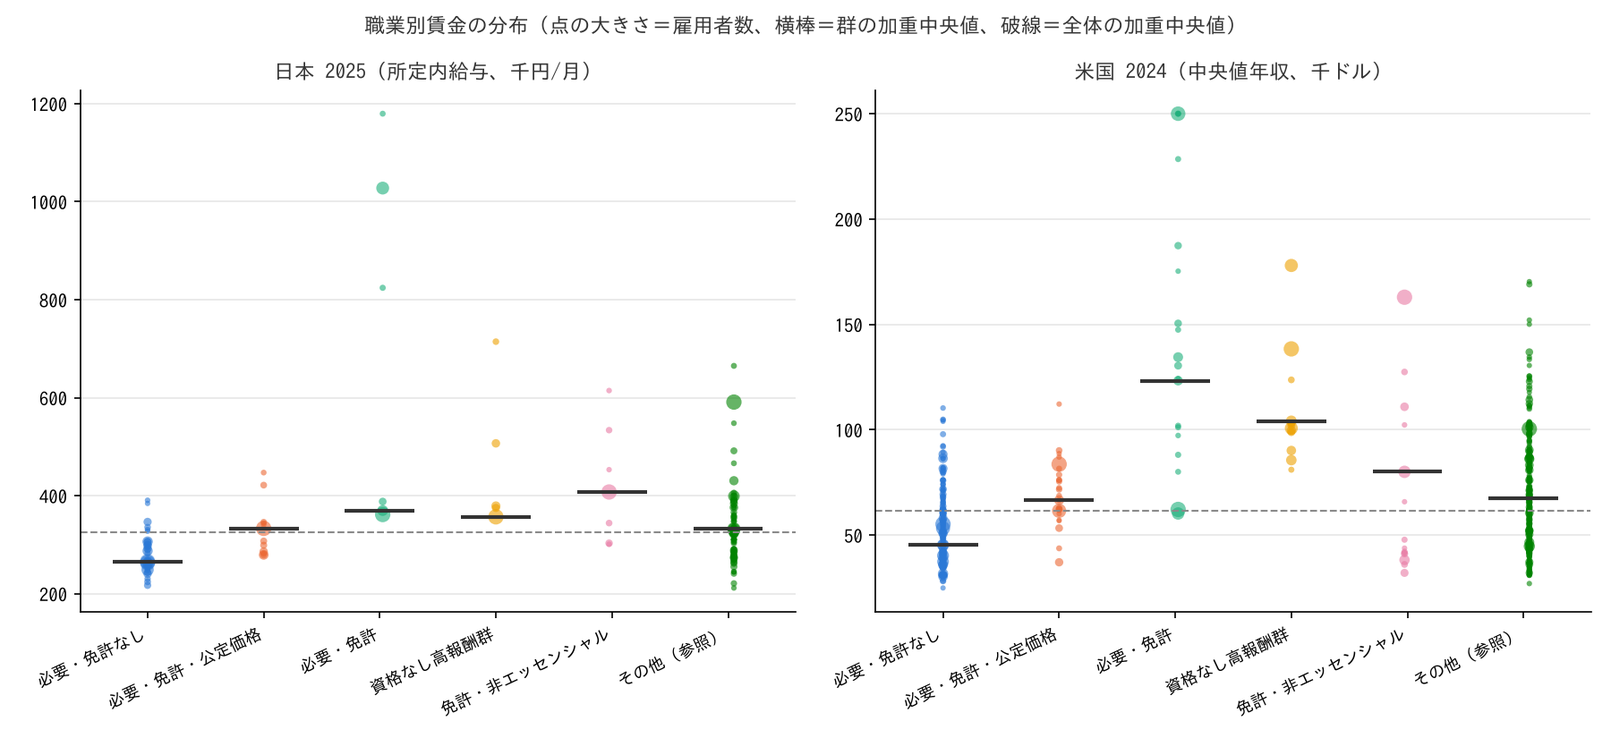
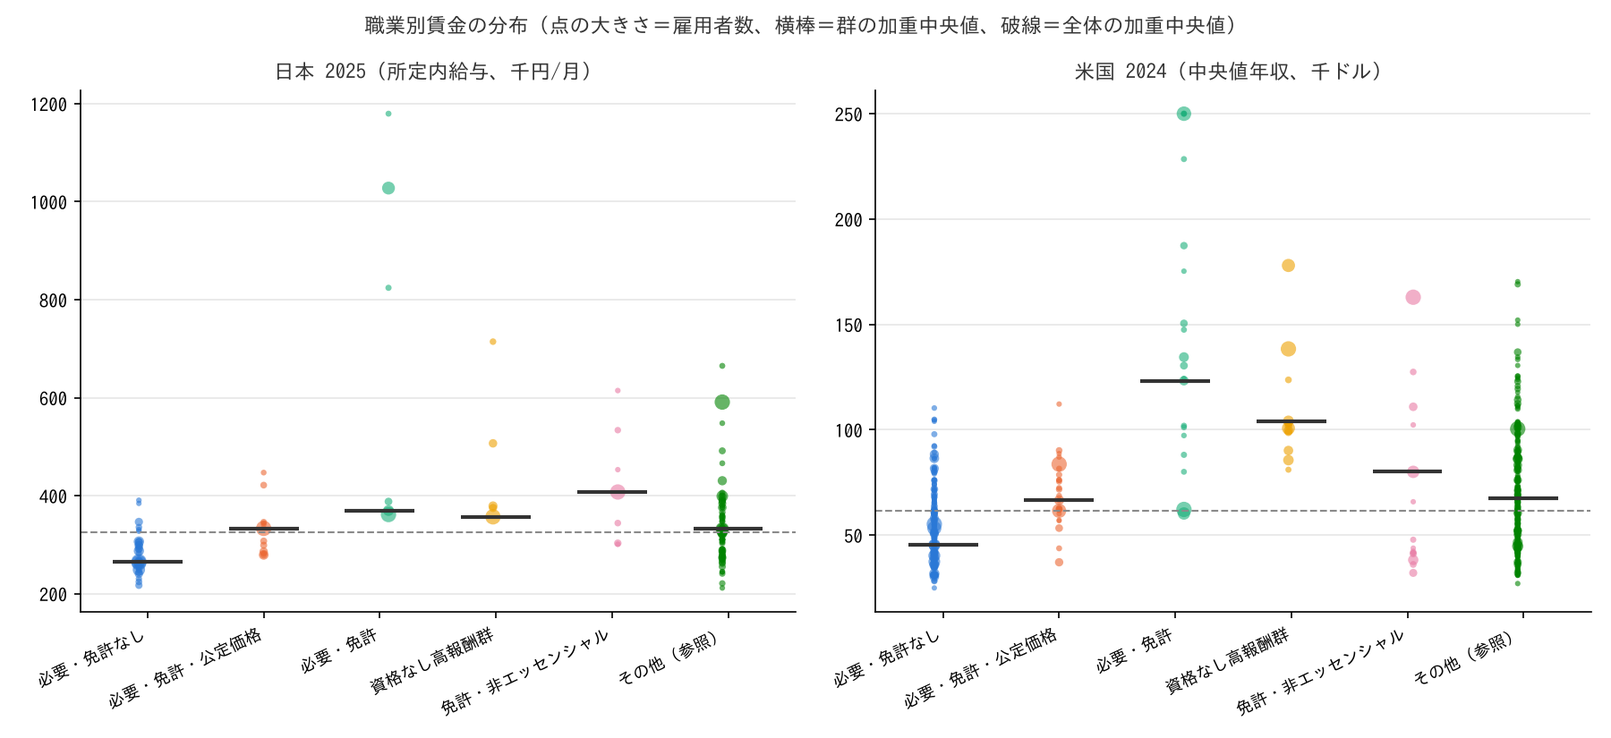
docs(essential-work-wages): 再レビュー対応。H2 の仮説全体の判定、H3 の固定効果なし残差、図の決定性ほか
- R1: H2 総合判定（事前規則 2 か国とも ≥ 0.20 → 整合基準を満たさない）を追加、説明割合を「5 割強〜8 割超」の帯に、
  F 係数の単位を明記、散布図のずらしを hash から決定的な値に（再実行で同一 PNG）
- R3: 年固定効果なし（設計の文言どおり）の残差符号を併記（看護は 9/11 で整合、介護 4/11 で不変）、2024-06 を 2025 年に当てた感度、
  図の線種で事前登録 5 回と事後追加 2 回を区別、推測を仮説の候補と明示
- R4: H4 を部分判定（事後の合成）と明記。総括・設計書・README を同期

Claude-Session: https://claude.ai/code/session_012roE9R7BpcZcLgKN6MHKL8

diff --git a/themes/essential-work-wages/src/theme_essential_work_wages/analysis/a20261030_r3_admin_price.py b/themes/essential-work-wages/src/theme_essential_work_wages/analysis/a20261030_r3_admin_price.py
@@ -187,6 +187,15 @@ def residuals_with_year_fe(d: pl.DataFrame) -> tuple[pl.DataFrame, float, float]
     return d.with_columns(pl.Series("resid", np.asarray(res.resid))), b, se
 
 
+def residuals_no_fe(d: pl.DataFrame) -> pl.DataFrame:
+    """設計の文言どおり年固定効果なし: Δlog 賃金 = a + b·log 求人倍率（加重）。
+
+    残差の符号の感度用。"""
+    x = sm.add_constant(d["log_ratio"].to_numpy(), has_constant="add")
+    res = sm.WLS(d["dlog_wage"].to_numpy(), x, weights=d["workers"].to_numpy()).fit()
+    return d.with_columns(pl.Series("resid_nofe", np.asarray(res.resid)))
+
+
 def did_series(bsws: pl.DataFrame) -> pl.DataFrame:
     """year -> treated wage, control wage (weighted), with old/new names across the 2020 break."""
     b = bsws.filter((pl.col("sex") == "T") & (pl.col("size_class") == "all"))
@@ -440,6 +449,19 @@ def main() -> None:
         v = "整合" if share >= 9 / 13 else ("不支持" if share <= 5 / 13 else "中間")
         verdicts.append(f"{k}: 負の年 {neg}/{n}（{share:.2f}）→ {v}")
     print("判定（負の年の割合 ≥ 0.69 整合 / ≤ 0.38 不支持）: " + "; ".join(verdicts))
+    dn = residuals_no_fe(d)
+    v2 = []
+    for k in ADMIN_KEYS:
+        sub = dn.filter(pl.col("key") == k)
+        neg = int((sub["resid_nofe"] < 0).sum())
+        share = neg / sub.height if sub.height else math.nan
+        rv2 = "整合" if share >= 9 / 13 else ("不支持" if share <= 5 / 13 else "中間")
+        v2.append(f"{k}: 負の年 {neg}/{sub.height}（{share:.2f}）→ {rv2}")
+    print("年固定効果なし（設計の回帰式どおり）の残差で: " + "; ".join(v2))
+    print(
+        "注: 残差はゼロ近傍（±0.3 pt）の年が多く、符号の数は小さなノイズに左右される。"
+        "主判定は年固定効果つき（年ごとの全体の賃上げを除いた区分間の比較）とし、固定効果なしも併記する。"
+    )
     pooled = dr.filter(pl.col("key").is_in(list(ADMIN_KEYS)))
     pooled_mean = as_float(pooled["resid"].mean())
     pooled_neg = as_float((pooled["resid"] < 0).mean())
@@ -546,6 +568,14 @@ def main() -> None:
         + " ".join(f"{100 * x:+.1f}" for x in j0["non_event_values"])
     )
     print(f"**H3b 判定（事前登録 5 回）: {j0['verdict']}**")
+    j25 = h3b_judge(
+        ds, {**{k: v for k, v in EVENTS_PRE.items() if k != 2024}, 2025: "2024-06 一本化（翌年）"}
+    )
+    print(
+        f"2024-06 の改定を 2025 年調査に当てた場合: 翌年 ≥ +2% {j25['hits']}/{j25['n_events']}、"
+        f"改定年の中央値 {100 * j25['event_median']:+.2f}%、"
+        f"非改定年 {100 * j25['non_event_median']:+.2f}% → {j25['verdict']}"
+    )
     jc = h3b_judge(ds, EVENTS_PRE, col="rel_change_cash")
     print(
         f"きまって支給する現金給与で: 翌年 ≥ +2% {jc['hits']}/{jc['n_events']}、"
@@ -641,8 +671,10 @@ def main() -> None:
     ax.legend(frameon=False, fontsize=8)
     ax = axes[1]
     ax.plot(ds["year"], ds["gap"] * 100, marker="o", color=SERIES[0])
-    for y in EVENT_YEARS:
-        ax.axvline(y - 0.5, color=SERIES[1], linestyle=":", linewidth=1)
+    for y in EVENTS_PRE:
+        ax.axvline(y - 0.5, color=SERIES[1], linestyle="--", linewidth=1.2)  # 事前登録 5 回
+    for y in (2015, 2017):
+        ax.axvline(y - 0.5, color=SERIES[1], linestyle=":", linewidth=1)  # 事後追加
     ax.axvline(2019.5, color=MUTED, linestyle="--", linewidth=1)
     ax.set_ylabel("log(介護 ÷ 対照) × 100", color=INK)
     ax.set_title(

diff --git a/themes/essential-work-wages/src/theme_essential_work_wages/analysis/a20261029_r1_paradox.py b/themes/essential-work-wages/src/theme_essential_work_wages/analysis/a20261029_r1_paradox.py
@@ -460,7 +460,7 @@ def fig_strip(jp: pl.DataFrame, us: pl.DataFrame, path: Path) -> None:
             y = sub["wage"].to_numpy() / (1.0 if name.startswith("日本") else 1000.0)
             w = sub["workers"].to_numpy()
             s = 8 + 60 * (w / w.max()) if len(w) else []
-            jitter = (hash(g) % 7 - 3) / 40
+            jitter = ((i * 3) % 7 - 3) / 40  # 決定的なずらし（hash は実行ごとに変わる）
             ax.scatter(
                 [i + jitter] * len(y),
                 y,
@@ -624,8 +624,15 @@ def main() -> None:
     )
 
     # H2
-    h2_block("日本 2025", jp)
-    h2_block("米国 2024", us)
+    h2_jp = h2_block("日本 2025", jp)
+    h2_us = h2_block("米国 2024", us)
+    ok_jp = h2_jp["licensed"] >= 0.20
+    ok_us = h2_us["licensed"] >= 0.20
+    print(
+        f"\n**H2 総合判定（事前規則: 2 か国中 2 か国で学歴統制後の差 ≥ 0.20）: "
+        f"{'整合' if ok_jp and ok_us else '整合基準を満たさない'}**"
+        f"（日本 {h2_jp['licensed']:+.3f}、米国 {h2_us['licensed']:+.3f}。国別は上表）"
+    )
     # H5
     h5_block("日本 2025", jp, ["education_years", "scheduled_hours", "tenure_years"])
     h5_block("米国 2024", us, ["education_years"])

diff --git a/themes/essential-work-wages/reports/2026-10-30-summary-essential-work-wages.md b/themes/essential-work-wages/reports/2026-10-30-summary-essential-work-wages.md
@@ -8,7 +8,7 @@
 「エッセンシャル」と呼ばれた後も相対賃金は改善していない。日本では 2020 年から 2025 年にかけて 5 pt 下がり、米国は横ばい（H1b）。
 
 ## 2. 「必要だから安い」のではなく、必要な仕事が「安い特性」を併せ持っている（H0、ただし判定不能）
-職業の賃金を「必要かどうか」だけで説明しようとすると、必要な仕事は 2〜3 割安い（係数 −0.21・−0.28）。免許の有無・公定価格か・女性比率・学歴年数（日本は労働時間と勤続も）を同時に入れると、「必要であること」の係数は −0.04〜−0.07（日本）・−0.05〜−0.12（米国）に縮む。逆説の 7〜8 割は、必要な仕事が **女性比率が高く・学歴年数が短く・（米国では）免許がない** という特性を併せ持つことと結びついている。
+職業の賃金を「必要かどうか」だけで説明しようとすると、必要な仕事は 2〜3 割安い（係数 −0.21・−0.28）。免許の有無・公定価格か・女性比率・学歴年数（日本は労働時間と勤続も）を同時に入れると、「必要であること」の係数は −0.04〜−0.07（日本）・−0.05〜−0.12（米国）に縮む。逆説のうち、必要な仕事が **女性比率が高く・学歴年数が短く・（米国では）免許がない** という特性を併せ持つことと結びつく部分は、仕様により 5 割強から 8 割超（米国で境界を除くと 56%、重みなしでは係数が符号を変える）。
 
 残りがゼロかどうかは決められない。点推定は事前に決めた「消えた」（±0.05）と「残った」（−0.10 以下）の間の帯に落ちる仕様が多く、95% 区間は両方にかかり、重みの付け方で整合域にも入る。事前登録はこの帯の扱いを決めていなかったので、H0 は判定不能とした。設計の回帰式にあったレント変数も、職業別のレント指標が無く入れていない。
 
@@ -17,12 +17,12 @@
 |---|---|---|---|
 | 逆説の存在 | H1 | 両国 整合 | 上記 |
 | 可視化後の改善 | H1b | 改善なし（記述） | 日本 −5.3 pt、米国 −0.1 pt。比較の始点は設計の 2019 年でなく 2020・2021 年 |
-| 供給制限（免許） | H2 | 米国 整合、日本 不支持 | 必要な仕事の中で、免許職は無免許職より米国で 22%（学歴を揃えて）高い。日本では学歴を揃えると 9% で区間がゼロをまたぐ。日本の免許は養成課程（学歴）と一体で分離できない |
+| 供給制限（免許） | H2 | 仮説全体: 整合基準を満たさない（事前規則は 2 か国とも ≥ 0.20。米国のみ整合、日本は不支持） | 必要な仕事の中で、免許職は無免許職より米国で 22%（学歴を揃えて）高い。日本では学歴を揃えると 9% で区間がゼロをまたぐ。日本の免許は養成課程（学歴）と一体で分離できない |
 | 免許の中の職階 | H2b | 未実施 | 看護師 vs 介護職 と 看護師 vs 医師 の差の比較は計算していない |
-| 公定価格（価格シグナルの遮断） | H3 | 介護 不支持、看護・保育 中間 | 区分の間で、人手不足の大きい区分ほど賃金が上がるという関係が無い（傾き ≈ 0、区分クラスタでも同じ）。介護の賃金変化は人手不足から予測されるより高い。介護は人手不足の筆頭でもない（45 区分中 8〜17 位。上位は建設・警備・土木） |
+| 公定価格（価格シグナルの遮断） | H3 | 介護 不支持、保育 中間、看護は仕様で割れる（年固定効果つき中間・なし整合） | 区分の間で、人手不足の大きい区分ほど賃金が上がるという関係が無い（傾き ≈ 0、区分クラスタでも同じ）。介護の賃金変化は人手不足から予測されるより高い。介護は人手不足の筆頭でもない（45 区分中 8〜17 位。上位は建設・警備・土木） |
 | 公定価格（改定で動く） | H3b | 不支持（事前登録の 5 回で判定。代替・事後追加では中間） | 改定の翌調査年に介護職の相対賃金が 2% 以上上がった回数は 0/4、改定年と非改定年の中央値はどちらも +1.0%。しかし対照比の水準は 2009 年 −6.6% から 2019 年 +4.7% へ 10 年でなだらかに 11 pt 改善した。並行トレンドの事前期間が無く、最低賃金とも分離できないため、処遇改善との関係は識別できない |
 | 公定価格（国際） | H3c | 未着手 | OECD 保健支出の公的シェアを取得していない |
-| 倫理的人質（スト制約） | H4 | 中間 | 日本の医療・福祉は雇用当たりの争議件数は運輸・建設・製造の 1.3 倍で少なくないが、半日以上の停止による損失日数は 0.16 倍、参加者 1 人当たり 0.06 日（運輸 1.42 日）。欧州 12 か国の雇用当たり比でも 8〜9 割の国で医療・教育の方が少ない。「同程度の人手不足」の統制と「組織率 × 賃金プレミアム」は未検証 |
+| 倫理的人質（スト制約） | H4 | 中間（部分判定、事後の合成） | 日本の医療・福祉は雇用当たりの争議件数は運輸・建設・製造の 1.3 倍で少なくないが、半日以上の停止による損失日数は 0.16 倍、参加者 1 人当たり 0.06 日（運輸 1.42 日）。欧州 12 か国の雇用当たり比でも 8〜9 割の国で医療・教育の方が少ない。「同程度の人手不足」の統制と「組織率 × 賃金プレミアム」は未検証 |
 | スト頻度と看護師賃金 | H4b | 支持されない（記述） | 看護師の報酬 ÷ 平均賃金は 英 0.86 < 仏 0.96 < 日 1.04 < OECD 中央値 1.17 |
 | ケア・ペナルティ（ジェンダー） | H5 | 両国 整合（米国は統制が不完全） | 必要な仕事の中で、女性が 7 割以上の職業は 3 割以下の職業より、職業平均で日本 28%（学歴・時間・勤続を揃えて。国勢調査の女性比率でも同じ）・米国 19%（学歴のみ）低い |
 | ペナルティは全職業に効くか | H5b | 米国 同程度、日本 女性比率の出所で変わる | 女性比率 +10 pt の係数は米国で E=1 −0.04・E=0 −0.05。日本は賃金表ベースでは E=1 のみ（−0.03 vs 0.00）、国勢調査ベースでは同程度（−0.03 vs −0.02） |
@@ -33,7 +33,7 @@
 ## 4. 何が言えて、何が言えないか
 **言えること（関連として）。**
 1. 逆説は実在し、感染症後も縮んでいない。
-2. 逆説の大部分は「必要性」ではなく、必要な仕事に集中する 3 つの特性（女性比率、短い学歴年数、米国では無免許）と結びついている。統制変数の中では、事前登録した H5 の女性比率が両国で最大の係数を示した。
+2. 逆説の大部分は「必要性」ではなく、必要な仕事に集中する 3 つの特性（女性比率、短い学歴年数、米国では無免許）と結びついている。統制変数の中では、事前登録した H5 の女性比率（0 → 1 の差で測った係数。0/1 ダミーの他変数とは単位が違う）が両国で最大の係数を示した。
 3. 「公定価格のせいで人手不足でも賃金が上がらない」は、少なくとも日本の介護には当てはまらない。日本では区分の間で人手不足と賃金変化が並んでおらず、介護の賃金は低賃金の対照より速く上がった。それでも全職業の中央値の 0.8 倍にとどまる。
 4. 日本の医療・福祉では、争議は起きるが、半日以上仕事を止める争議はごく少ない。
 
@@ -46,8 +46,8 @@
 - 「ブルシット・ジョブほど高賃金」側の逆説。扱っていない（先行研究は支持していない）。
 
 ## 5. 当初の見立てとの照合（2026-10-29 の設計時点の予想）
-- 「公定価格と倫理的人質が Graeber の説明より強い候補」→ **半分外れた。** 倫理的人質は「半日以上の停止がごく少ない」という形で痕跡が見えるが、公定価格は人手不足の遮断という形では見えなかった。介護の賃金は対照より速く上がっていた。
-- 「必要性は説明変数ではなく、供給制限が説明変数」→ **米国では当たり、日本では外れ。** 日本では供給制限より学歴年数が効き、両者は分離できない。
+- 「公定価格と倫理的人質が Graeber の説明より強い候補」→ **半分外れた。** スト制約と整合する指標（医療・福祉では半日以上の停止がごく少ない）は一部にあるが、公務員のスト禁止と区別できず H4 は中間。公定価格は人手不足の遮断という形では見えなかった。介護の賃金は対照より速く上がっていた。
+- 「必要性は説明変数ではなく、供給制限が説明変数」→ **仮説全体としては基準を満たさない（米国のみ当たり、日本は外れ）。** 日本では供給制限より学歴年数が効き、両者は分離できない。
 - 「資格なしの高報酬はレントへの近さ」→ **測れなかった。** 職業の粒度が足りない。
 - 設計時に 6 つの成分の 1 つとして登録したジェンダー（成分 (e)、H5）は、結果として両国で最大の係数だった。設計時の重み付け（公定価格・倫理的人質を主候補とした）は結果に照らして見直しが要る。「家庭内無償労働の参照価格を引きずっている」という経路は検証しておらず、次の仮説である。
 

diff --git a/README.md b/README.md
@@ -9,7 +9,7 @@
 | `growth-fertility` | 経済成長と出生率の関係は国間・国内（所得階層）でフラクタルか | H1〜H3b report 済み（`themes/growth-fertility/reports/2026-10-04-h1-income-tfr.md`, `...-h2-growth-shocks.md`, `...-h3-jp-income-class.md`, `...-h3b-age-adjusted.md`）。**総括（一般読者向け・日本語・図 13 枚）**: `themes/growth-fertility/reports/2026-10-05-summary-growth-fertility.md`。データ: World Bank WDI、e-Stat 国民生活基礎調査・就業構造基本調査 fetch〜mart 実装済み |
 | `bicycle-industry` | 日本および世界の自転車産業はどのような状況か（実用層と趣味層の分化、部品供給、小売構造。自動車・二輪との対比） | 設計済み（`design/themes/bicycle-industry.md`、H1〜H6 事前登録、2026-10-22）。データソース調査済み（`design/data-sources.md`）。①生産動態統計（自転車・自動車・二輪、2017–2025）、④UN Comtrade（9 か国 2010–2024）、⑤Eurostat HICP・BLS CPI、⑦シマノ 有報（FY2013–2025）、③総務省 CPI 品目別（自転車 A/B・乗用車）、⑧経済センサス 自転車小売業（1994–2021）fetch〜mart 実装済み（`marts/meti_production`, `bicycle_trade`, `price_indices`, `shimano_segments`, `jp_cpi_vehicles`, `jp_retail_census`）。R1 report（H1 不支持: 台数はコロナ前を割り込む）: `themes/bicycle-industry/reports/2026-10-22-r1-volume-price.md`。R2 report（H3 不支持: 部品の落ち幅 ÷ 完成車 1.15、H4 不支持: 高価格帯の方が上がった）: `.../2026-10-22-r2-bullwhip-price.md`。R3 report（H5 (a) 整合・定義差込み、(b) 整合。個人店の減少は小売業全体に共通）: `.../2026-10-22-r3-retail.md`。R4 report（H7 先食い: 6 か国合計は整合だが水準は 0.79 の新常態、H8 台湾産単価は上昇で不支持、中国部品シェア +4.99pt 中間）: `.../2026-10-22-r4-pullforward-origin.md`。R6 report（H11 高齢化・非補充は不支持: サイクリング行動者率は 20 代で上昇、60 代で低下）: `.../2026-10-22-r6-participation.md`。R5 report（H9 台湾輸出は不支持・代理として弱い、H10 部品 → 完成車 の位相は整合、完成車の売上は 2026 年も 2019 年末を下回る）: `.../2026-10-22-r5-world-cycle.md`。R7 report（H14 Specialized は整合: Merida の持分法損益は FY2023–24 損失、FY2025 は FY2022 の 15%。SBC 向け売上 −42% vs 全体 −28%。ADR 0006。補足: Halfords Cycling 売上は特需後にコロナ前の 0.94 倍、Accell 2010–2021）: `.../2026-10-22-r7-specialized.md`。R8 report（H2 不支持: 電動アシスト台数 −2.5% が僅差で基準外、スポーツ車系 −16%／MTB・クロス −71%、単価は電動↑・スポーツ↓。JBPI 車種別 2021–2025 ＋ POS）: `.../2026-10-22-r8-segments.md`。R9 report（H6 前段 不支持: 自動車・二輪は趣味層の方が持ちこたえ「実用 ≥ 趣味」は自転車だけ。後段 整合だが仕様依存。全軽自協・自販連・JAIA 結線）: `.../2026-10-22-r9-auto-moto.md` |
 | `parliament-size` | 日本の国会議員定数の削減は適切な政策か（人口比・議員の役割の範囲・比例代表と少数政党・一票の格差・国費） | 設計済み（`design/themes/parliament-size.md`、H1〜H6 事前登録、2026-10-27）。① IPU Parline API（281 議院・193 か国の定数・現員・職員数・予算・人口）fetch〜mart 実装済み（`marts/ipu_parliaments`）。R1 report（H1 整合: 下院 3.74 人/100 万人で OECD 38 か国中 3 位。H1b 整合: 立方根法則では 0.93 で 19 位の中位。H1c 整合: 削減後も判定不変）: `themes/parliament-size/reports/2026-10-27-r1-ratio.md`。② 総務省 結果調 Excel（第 50・51 回: ブロック別得票・議席配分表・当選人数・有権者数）＋ e-Stat 国勢調査 2020 日本人人口 fetch〜mart 実装済み（`marts/jp_hr_pr_results`, `jp_hr_seats_by_party`, `jp_hr_electorate`, `jp_census2020_prefecture`）。R2 report（H3 整合: 比例 176→131 で小政党群 −36%/−33% vs 大政党群 −23%/−22%。H3b 整合: 修正サンラグは相殺。H3c 整合。H4 不支持: ブロック間格差は 1.21→1.15 で広がらない。H4b 不支持: 小選挙区 260 でも都道府県格差 1.89）: `.../2026-10-27-r2-pr-blocks.md`。④ 財務省 予算書 PDF・歳費法等の法定額、⑤ 衆議院 HP の定数変遷＋e-Stat 長期人口、⑥ 内閣法制局 法律案件数 実装済み。R3 report（H5 整合: 45 減の節約 25〜31 億円は国会所管の 2%・一般会計の 0.003%。H5b 整合: 議会予算÷政府予算 0.096% は OECD 下位 9 位）: `.../2026-10-27-r3-cost.md`。R4 report（H6 日本は僅差で不支持: 人口当たり定数は 1946 年比 0.60 倍。各国は整合: r = 0.24）: `.../2026-10-27-r4-history.md`。R5 report（H2 (a) 整合: 議員が少ない国ほど議員 1 人当たりの職員が多い ρ = −0.42、日本は 4.45 人/議員で中位より多い。(b) 議員立法の国際比較は判定不能、日本は成立法律の 22%）: `.../2026-10-27-r5-roles.md`。**総括（H1〜H6 を 支える／支えない／規範の選択 に整理）**: `.../2026-10-27-summary-parliament-size.md` |
-| `essential-work-wages` | エッセンシャルワークの逆説: 社会に不可欠な仕事（介護・保育・清掃・物流・小売）ほどなぜ低賃金か。必要性そのものでなく、供給制限（免許）・公定価格・スト制約（倫理的人質）・ケア・ペナルティ・レントへの近さで説明できるか。対照群は「必要かつ高賃金」（医師等）と「資格なしで高報酬」（コンサル・大手テック・投資銀行） | 設計済み（`design/themes/essential-work-wages.md`、H0〜H6 事前登録、2026-10-29）。賃金構造基本統計調査 職種別（2009–2025）、Census ACS 職業別所得（2021–2024）、Dingel–Neiman、職業別有効求人倍率、Eurostat SES・国民経済計算、OECD 医療職報酬、ILOSTAT 争議、労働争議統計・労働組合基礎調査・国勢調査 職業×性・法人企業統計 fetch〜mart 実装済み（12 ソース）。R1（H1 整合: E=1 の賃金は中央値の 0.82・0.85 倍、H2 米国整合・日本不支持、H5 ケア・ペナルティ両国整合、H0 判定不能: 必要性の係数は統制後 −0.04〜−0.12 で事前基準の帯の間）: `themes/essential-work-wages/reports/2026-10-29-r1-paradox.md`。R2（H6 判定不能: SES は ISCO 1 桁のみ。専門職全体では金融・情報通信で 2 割高、ρ 0.61）: `.../2026-10-29-r2-rents.md`。R3（H3 介護 不支持: 区分間で人手不足と賃金変化が並ばず介護は予測より上、H3b 不支持: 事前登録 5 回の改定年に段差なし、ただし 10 年で対照比 11 pt 改善）: `.../2026-10-30-r3-admin-price.md`。R4（H4 中間: 医療・福祉は争議件数は少なくないが半日以上の損失日数は運輸の 1/6〜1/27、参加者 1 人当たり 0.06 日）: `.../2026-10-30-r4-strikes.md`。**総括**（方法論レビュー後に改訂）: `.../2026-10-30-summary-essential-work-wages.md` |
+| `essential-work-wages` | エッセンシャルワークの逆説: 社会に不可欠な仕事（介護・保育・清掃・物流・小売）ほどなぜ低賃金か。必要性そのものでなく、供給制限（免許）・公定価格・スト制約（倫理的人質）・ケア・ペナルティ・レントへの近さで説明できるか。対照群は「必要かつ高賃金」（医師等）と「資格なしで高報酬」（コンサル・大手テック・投資銀行） | 設計済み（`design/themes/essential-work-wages.md`、H0〜H6 事前登録、2026-10-29）。賃金構造基本統計調査 職種別（2009–2025）、Census ACS 職業別所得（2021–2024）、Dingel–Neiman、職業別有効求人倍率、Eurostat SES・国民経済計算、OECD 医療職報酬、ILOSTAT 争議、労働争議統計・労働組合基礎調査・国勢調査 職業×性・法人企業統計 fetch〜mart 実装済み（12 ソース）。R1（H1 整合: E=1 の賃金は中央値の 0.82・0.85 倍、H2 仮説全体は基準を満たさず（米国のみ整合）、H5 ケア・ペナルティ両国整合、H0 判定不能: 必要性の係数は統制後 −0.04〜−0.12 で事前基準の帯の間）: `themes/essential-work-wages/reports/2026-10-29-r1-paradox.md`。R2（H6 判定不能: SES は ISCO 1 桁のみ。専門職全体では金融・情報通信で 2 割高、ρ 0.61）: `.../2026-10-29-r2-rents.md`。R3（H3 介護 不支持・看護は仕様で割れる: 区分間で人手不足と賃金変化が並ばず介護は予測より上、H3b 不支持: 事前登録 5 回の改定年に段差なし、ただし 10 年で対照比 11 pt 改善）: `.../2026-10-30-r3-admin-price.md`。R4（H4 中間: 医療・福祉は争議件数は少なくないが半日以上の損失日数は運輸の 1/6〜1/27、参加者 1 人当たり 0.06 日）: `.../2026-10-30-r4-strikes.md`。**総括**（方法論レビュー後に改訂）: `.../2026-10-30-summary-essential-work-wages.md` |
 
 ## セットアップ
 ```bash

diff --git a/themes/essential-work-wages/reports/2026-10-29-r1-paradox.md b/themes/essential-work-wages/reports/2026-10-29-r1-paradox.md
@@ -3,10 +3,10 @@
 ## 要約（職業平均の記述的な関連。因果の主張はない）
 - **H1（逆説は存在する）は日本・米国とも整合。** 政府が「エッセンシャル」と定義し、かつ現場にいなければ成立しない職業（E=1）の賃金中央値は、全職業の中央値の 0.82 倍（日本 2025 年、所定内給与）・0.85 倍（米国 2024 年、フルタイム通年の年収）で、賃金の下位 4 分の 1 に E=1 の雇用者が 2.1 倍・1.5 倍に過大代表されている。境界職業を除くと差は広がる（0.80・0.62）。
 - **H1b（可視化後に改善したか）は改善なし。** 日本の E=1 の相対賃金は 0.87（2020）→ 0.82（2025）と 5 pt 下がった。米国は 0.85 → 0.85 で横ばい。「エッセンシャル」と呼ばれた後も相対賃金は改善していない。
-- **H2（必要性でなく免許が賃金を分ける）は米国で整合、日本で不支持。** E=1 の中で免許職と無免許職の粗い賃金差は両国とも大きい（log 差 0.23・0.64）が、必要学歴年数を揃えると日本は +0.09（95% CI −0.01〜+0.19）に縮み、米国は +0.22（+0.10〜+0.33）が残る。日本では免許職の賃金差の大半が学歴年数で説明される。
+- **H2（必要性でなく免許が賃金を分ける）は仮説全体として整合基準を満たさない（事前規則は 2 か国とも ≥ 0.20。米国のみ整合、日本は不支持）。** E=1 の中で免許職と無免許職の粗い賃金差は両国とも大きい（log 差 0.23・0.64）が、必要学歴年数を揃えると日本は +0.09（95% CI −0.01〜+0.19）に縮み、米国は +0.22（+0.10〜+0.33）が残る。日本では免許職の賃金差の大半が学歴年数で説明される。
 - **H5（ケア・ペナルティ）は両国で整合（米国は統制が不完全な暫定値）。** E=1 の中で女性比率 70% 以上の職業は、30% 以下の職業より職業平均で 28%（日本、学歴・時間・勤続を統制、log −0.33）・19%（米国、学歴のみ統制、log −0.21）低い。日本の女性比率を国勢調査の全就業者ベースに替えても −0.32 で変わらない。女性比率 +10 pt の係数は米国では E=1 と E=0 で同程度（−0.04 と −0.05）、日本では E=1 で強い（−0.03 と 0.00。国勢調査ベースでは −0.03 と −0.02 で同程度）。
-- **H0（必要性の係数は統制後に消えるか）は両国とも判定不能。** 賃金比を E だけに回帰した係数は −0.21（日本）・−0.28（米国）で逆説を再現する。免許・公定価格・第三者被害・女性比率・学歴（日本は労働時間・勤続も）を入れると −0.04〜−0.07（日本）・−0.05〜−0.12（米国）まで縮む。点推定は事前基準の「整合域（|β| < 0.05）」と「不支持域（≤ −0.10）」の間の帯に落ちる仕様が多く、95% 区間は両域にかかる。事前登録にこの帯の扱いが無いため、判定不能とする。逆説の 7〜8 割は随伴する特性で説明されるが、残りがゼロかどうかは決められない。
-- **含意（関連として）:** 必要な仕事の低賃金は、必要な仕事が「女性比率が高い・学歴年数が短い・（米国では）免許がない」という特性を併せ持つことと強く結びついている。統制変数の中では女性比率の係数が両国で最大。「必要性そのもの」の寄与は小さいが、本分析では否定も肯定もできない。
+- **H0（必要性の係数は統制後に消えるか）は両国とも判定不能。** 賃金比を E だけに回帰した係数は −0.21（日本）・−0.28（米国）で逆説を再現する。免許・公定価格・第三者被害・女性比率・学歴（日本は労働時間・勤続も）を入れると −0.04〜−0.07（日本）・−0.05〜−0.12（米国）まで縮む。点推定は事前基準の「整合域（|β| < 0.05）」と「不支持域（≤ −0.10）」の間の帯に落ちる仕様が多く、95% 区間は両域にかかる。事前登録にこの帯の扱いが無いため、判定不能とする。逆説のうち随伴する特性と結びつく部分は仕様により 5 割強〜8 割超（米国で境界を除くと 56%、重みなしでは 100% 超）で、残りがゼロかどうかは決められない。
+- **含意（関連として）:** 必要な仕事の低賃金は、必要な仕事が「女性比率が高い・学歴年数が短い・（米国では）免許がない」という特性を併せ持つことと強く結びついている。統制変数の中では女性比率（0〜1 の連続変数。係数は女性比率が 0 → 1 に動いたときの log 差で、0/1 ダミーの L・P・T とは単位が違う）の係数が両国で最大。「必要性そのもの」の寄与は小さいが、本分析では否定も肯定もできない。
 
 ## 問いと仮説
 `design/themes/essential-work-wages.md` の H1・H1b・H2・H5・H5b・H0（事前登録 2026-10-29）。判定基準は設計書どおり: H1 は賃金比 ≤ 0.90 かつ下位 4 分の 1 の過大代表 ≥ 1.5、H2 は学歴統制後の log 差 ≥ 0.20 で整合・< 0.10 で不支持、H5 は統制後の log 差 ≤ −0.15 で整合・> −0.05 で不支持、H0 は統制後 |β_E| < 0.05 で整合・≤ −0.10 で不支持。
@@ -89,6 +89,8 @@ mart: `data/marts/bsws_occupation_wages.parquet`（27,468 行 = 17 年 × 性 3 
 | 米国 | 境界込み | 38 / 133 | 1.36 | 0.74 | 0.64 | **+0.216（+0.100〜+0.332）** | 0.130 | 整合 |
 | 米国 | 低障壁の免許を除く | 29 / 142 | 1.36 | 0.74 | 0.65 | +0.199（+0.079〜+0.318） | 0.133 | 中間 |
 
+**H2 総合判定（事前規則: 2 か国中 2 か国で ≥ 0.20）: 整合基準を満たさない。** 国別には米国 整合・日本 不支持。
+
 日本では免許職（看護師・薬剤師・教員など）の方が学歴年数が長く、学歴を揃えると免許の係数は 0.07〜0.09 で区間がゼロをまたぐ。米国では学歴を揃えても 0.20〜0.22 が残る。日本の免許職は養成課程 = 学歴であり、「免許」と「学歴年数」は分離できない。これが制度の違い（米国の州免許は同じ学歴でも職業を閉じる）なのか、学歴変数が免許を代理しているだけなのかは、本分析では区別できない。H2b（看護師 vs 介護職の差と、看護師 vs 医師の差の比較）は計算していない。
 
 ### H5: E=1 の中で女性比率
@@ -116,7 +118,7 @@ H5b（女性比率 +10 pt の係数、統制後）: 日本（賃金表）E=1 −
 
 ※ 日本で境界を除くと P と T が同じ職業集合になり（P=T）、両者の係数は識別できない（β_E には影響しない）。
 
-他の係数（+ P + T 仕様）: 日本 β_L +0.073、β_P +0.008、β_T +0.034、β_F −0.161。米国 β_L +0.088、β_P −0.133、β_T +0.013、β_F −0.423。女性比率の係数が両国で最大で、公定価格は米国でのみ負（メディケイド価格に依存する介護補助職が低い）、第三者被害 T は単独では効かない。
+他の係数（+ P + T 仕様）: 日本 β_L +0.073、β_P +0.008、β_T +0.034、β_F −0.161。米国 β_L +0.088、β_P −0.133、β_T +0.013、β_F −0.423。女性比率の係数（0 → 1 の差）が両国で最大で、公定価格は米国でのみ負（メディケイド価格に依存する介護補助職が低い）、第三者被害 T は単独では効かない。
 
 **判定: 両国とも判定不能。** E 単独の係数は逆説を再現する。統制後の点推定は仕様により整合域（日本 1 仕様、米国 1 仕様）・中間帯（4・3）・不支持域（0・1）にまたがり、95% 区間はいずれも整合域と不支持域の両方にかかる。重みなしでは両国とも整合域に入る。事前登録は ±0.05 と −0.10 の間の帯の扱いを決めておらず、どの仕様を主とするかも決めていないため、「消えた」とも「残った」とも言えない。
 

diff --git a/themes/essential-work-wages/reports/2026-10-30-r4-strikes.md b/themes/essential-work-wages/reports/2026-10-30-r4-strikes.md
@@ -1,7 +1,7 @@
 # R4: 倫理的人質。第三者被害がスト能力を奪っているか（H4・H4b）（2026-10-30, theme: essential-work-wages。方法論レビュー後に改訂）
 
 ## 要約（記述のみ、因果の主張はない）
-- **H4 は中間（指標で向きが割れる）。** 日本の 2012〜2024 年で、医療・福祉と教育（T=1）の雇用者 1,000 人・年当たりの総争議**件数**は、運輸・建設・製造（T=0）の 1.34 倍で少なくない。一方、半日以上の同盟罷業・作業所閉鎖による**労働損失日数**は T=0 の 0.16 倍で、事前基準の 0.5 を下回る。ただし T=0 の 3 産業は運輸（損失日数が突出）の寄与が大きく、T=0 を製造だけにすると日数比は 0.78、運輸だけにすると 0.03 と、合成する群の構成で動く。
+- **H4 は部分判定で中間（件数は不支持側、損失日数は整合側。割れたときの合成は事後の規則で、設計の中核条件「同程度の人手不足」「組織率 × 賃金プレミアム」は未検証）。** 日本の 2012〜2024 年で、医療・福祉と教育（T=1）の雇用者 1,000 人・年当たりの総争議**件数**は、運輸・建設・製造（T=0）の 1.34 倍で少なくない。一方、半日以上の同盟罷業・作業所閉鎖による**労働損失日数**は T=0 の 0.16 倍で、事前基準の 0.5 を下回る。ただし T=0 の 3 産業は運輸（損失日数が突出）の寄与が大きく、T=0 を製造だけにすると日数比は 0.78、運輸だけにすると 0.03 と、合成する群の構成で動く。
 - **国際（雇用で割った比、欧州 12 か国）も同じ形。** 医療・教育の争議件数が運輸・建設・製造より雇用当たりで少ない国は 9/10、損失日数が少ない国は 8/12（ドイツ 0.14、スイス 0.15、フランス 0.07、スウェーデン 0.06。多いのはポルトガル 2.0、アイルランド 1.3、ノルウェー 1.2、ポーランド 82）。事前基準（10 か国以上のうち 7 か国以上）は件数・日数とも満たす。雇用で割らない 21 か国の比（13/18・13/21）は参考値にとどめる。
 - **医療・福祉の争議は、参加者 1 人当たりの損失日数が小さい。** 損失日数 ÷ 参加人員（争議行為を伴う争議）は医療・福祉 0.06 日/人、製造 0.41、運輸 1.42、建設 7.29、教育 3.02。医療・福祉は争議行為を伴う争議の割合（0.29）も参加人員（雇用者 1,000 人当たり 0.85 人、運輸 1.00）も少なくないが、1 人当たりの損失日数は運輸の 24 分の 1。半日未満の行為は損失日数に数えられないため、これは「半日以上止める争議がごく少ない」ことを意味する。教育は逆に、参加者は少ないが 1 人当たりの日数は長い。
 - **H4b（ストが合法で頻度の高い国ほど看護師の相対賃金が高い）は記述として支持されない。** 病院看護師の報酬 ÷ 平均賃金は英国 0.86・フランス 0.96 で日本（1.04）より低く、韓国 1.19、OECD 中央値 1.17。医療のストが大きい英国で看護師の相対賃金は 38 か国中 37 位。
@@ -68,7 +68,7 @@ mart: `data/marts/jp_labour_disputes_by_industry.parquet`（273 行）、`jp_uni
 
 雇用で割った損失日数比: SWE 0.06、FRA 0.07、DEU 0.14、CHE 0.15、BEL 0.24、FIN 0.26、ESP 0.59、NLD 0.62、NOR 1.24、IRL 1.30、PRT 2.01、POL 82（2019 年の教員スト）。雇用で割らない比では日本の件数比が 0.74 と国内統計の 1.34 から反転しており、割らない比は向きの判定に使えない。事前基準（10 か国以上のうち 7 か国以上）は、雇用で割った比で件数・日数とも満たす。
 
-**H4 総合判定: 中間。** 日本の件数比が基準を外れ（1.34）、日数比と国際（雇用当たり）は基準内。
+**H4 総合判定: 中間（部分判定、事後の合成）。** 日本の件数比が基準を外れ（1.34）、日数比と国際（雇用当たり）は基準内。設計は件数と日数の両方を要求しており、片方だけ満たす場合の規則は無かった。
 
 ### H4b: 病院看護師の報酬 ÷ 平均賃金（OECD、被用者、最新年）
 | 国 | 倍率 | 医療のスト |

diff --git a/themes/essential-work-wages/reports/2026-10-29-r2-rents.md b/themes/essential-work-wages/reports/2026-10-29-r2-rents.md
@@ -2,7 +2,7 @@
 
 ## 要約（記述的な関連。因果の主張はない）
 - **H6 は判定不能。** 事前登録した対象（ISCO 2 桁の 25 ICT 専門職・24 経営金融専門職・33 金融ディーラー等）の賃金は、使えたデータ（Eurostat SES）には ISCO 1 桁しか無く、検定できなかった。代替として「専門職（ISCO 2）全体」で見た結果は、欧州 17 か国 × 2 時点のほぼ全てで事前基準の「整合」と「不支持」の間（代替指標では中間）にある。
-- **代替指標で見えたこと。** 同じ専門職大分類でも、金融・保険（K）と情報通信（J）で働く人の時給は専門職全体の 1.24 倍・1.18 倍（国 × 年の中央値）、専門・科学・技術（M）は 1.02 倍。産業別プレミアムと産業の 1 人当たり付加価値の Spearman ρ は中央値 0.61（不動産を除くと 0.69、ρ ≥ 0.5 が 66%）。「K・J・M すべて ≥ 1.30」は 1 か国も満たさず、「1 つ以上 ≥ 1.30」は 41%。
+- **代替指標で見えたこと。** 同じ専門職大分類でも、金融・保険（K）と情報通信（J）で働く人の時給は専門職全体の 1.24 倍・1.18 倍（国 × 年の中央値）、専門・科学・技術（M）は 1.02 倍。産業別プレミアムと産業の 1 人当たり付加価値の Spearman ρ は中央値 0.61（18 産業。ρ ≥ 0.5 は国 × 年の 66%。不動産を除いた 17 産業では中央値 0.69）。「K・J・M すべて ≥ 1.30」は 1 か国も満たさず、「1 つ以上 ≥ 1.30」は 41%。
 - **日本の探索（職種 × 企業規模）。** 資格なし高報酬群（システムコンサルタント・ソフトウェア作成者・金融営業など）の 1,000 人以上企業 ÷ 10〜99 人企業の賃金比は 1.07 で、エッセンシャル低賃金群の 1.08 と変わらない。経営コンサルタントを含む「その他の経営・金融・保険専門職」とシステムコンサルタントには 1.5〜1.6 倍の規模プレミアムがある。H6 の事前登録変数ではないので判定しない。
 - **含意:** 「どの産業にいるか」は同じ職業大分類の時給を 2 割前後動かし、その方向は産業のレント（1 人当たり付加価値）に沿う（関連）。ただし本来の対象（コンサルタント・投資銀行）は切り出せておらず、H6 の答えは出ていない。
 
